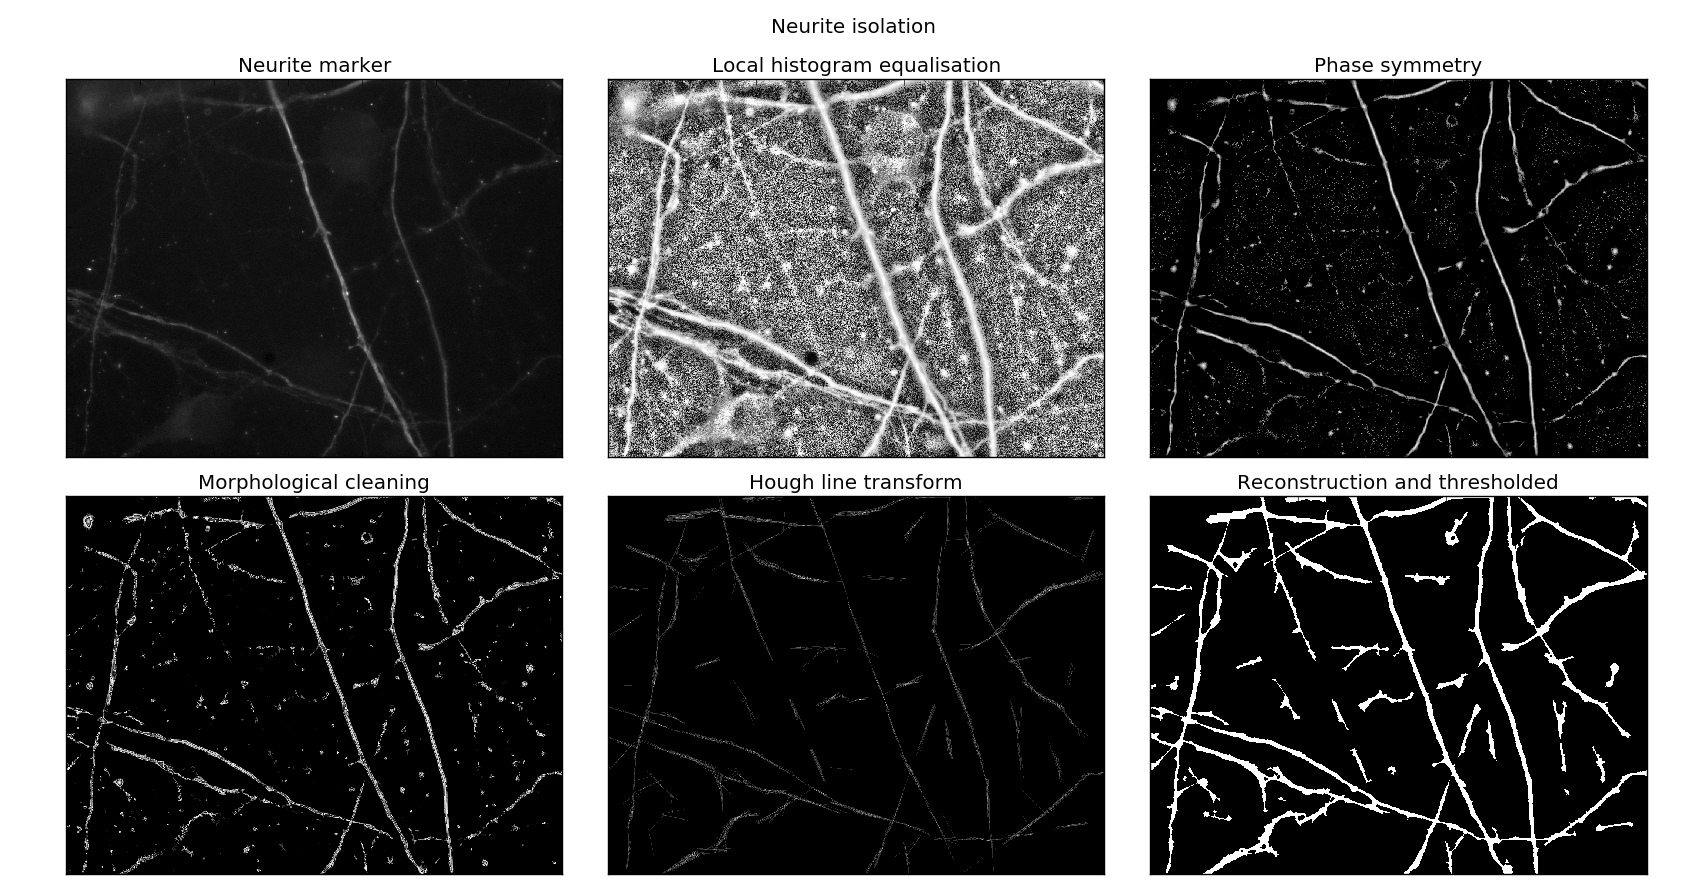
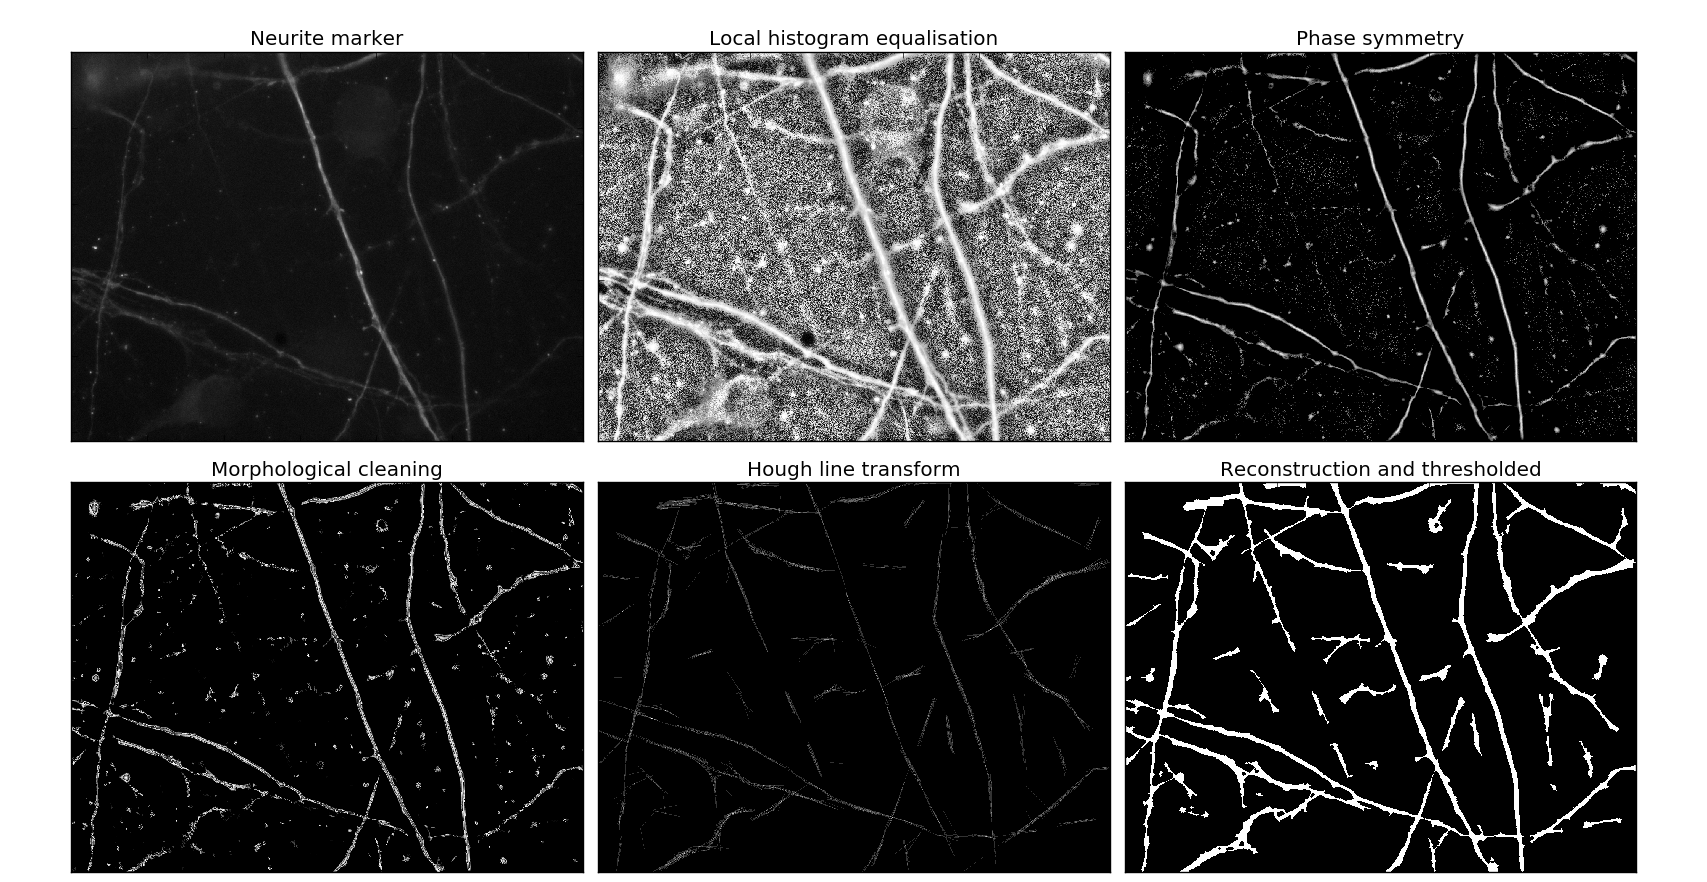
Remove figure suptitle

diff --git a/neurites.py b/neurites.py
@@ -92,7 +92,7 @@ def isolate(neurite_marker, show=True, save=None):
                   'Morphological cleaning', 'Hough line transform', 'Reconstruction and thresholded']
 
         fig, axes = plt.subplots(2,3,sharex=True,sharey=True)
-        fig.suptitle('Neurite isolation', fontsize=TITLE_FONT_SIZE)
+        # fig.suptitle('Neurite isolation', fontsize=TITLE_FONT_SIZE)
         for img, ax, title in zip(images, axes.ravel(), titles):
             ax.imshow(img, cmap='gray', interpolation='nearest')
             ax.set_title(title)

diff --git a/synapses.py b/synapses.py
@@ -264,7 +264,7 @@ def isolate(synaptic_marker,
         titles = ['Synaptic marker', 'Thresholded', 'Within size range', 'Within neurite mask']
 
         fig, axes = plt.subplots(2,2)
-        fig.suptitle('Synapse isolation', fontsize=TITLE_FONT_SIZE)
+        # fig.suptitle('Synapse isolation', fontsize=TITLE_FONT_SIZE)
         for img, ax, title in zip(images, axes.ravel(), titles):
             ax.imshow(img, cmap='gray')
             ax.set_title(title)
